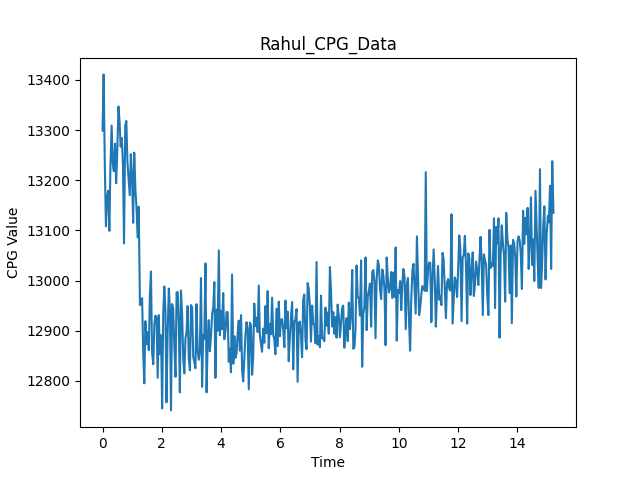
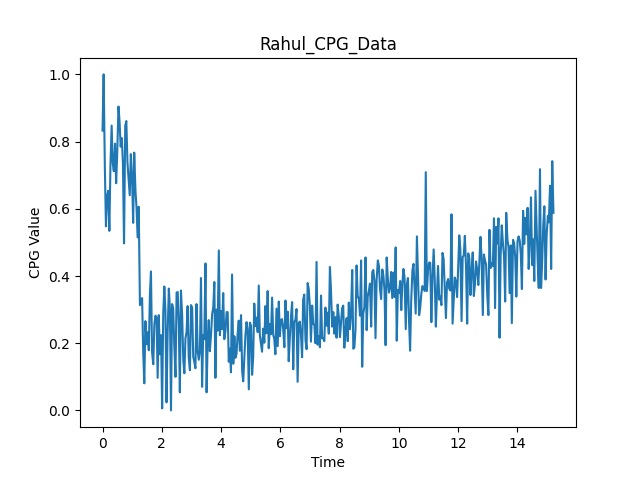
Min-Max normalized data

diff --git a/__init__.py b/__init__.py
@@ -62,6 +62,8 @@ def plot_time_series_cpg(path='',outputFileName='cpgData'):
     data[0] = pd.to_datetime(data[0], errors='coerce')
     start = data[0][0]
     data[0] = data.apply(lambda row: (row[0] - start).total_seconds(), axis = 1)
+    data[1] = (data[1]-data[1].min())/(data[1].max()-data[1].min())
+    print(data.head())
     data.plot(x=0,y=1,legend=None)
     pyplot.title(outputFileName)
     pyplot.xlabel('Time')
@@ -73,7 +75,7 @@ if __name__ == '__main__':
     # Windows : "XX:XX:XX:XX:XX:XX"
     # Mac OS :  "/dev/tty.BITalino-XX-XX-DevB" or "/dev/tty.BITalino-DevB" 
     macAddress = "/dev/tty.BITalino-DevB"
-    name = 'Saminul'
+    name = 'Rahul'
     outputFileName = f'{name}_CPG_Data'
     #ppg_vs_time = collect_data(macAddress,outputFileName=outputFileName)
     plot_time_series_cpg(path=f'CPG_Data/{outputFileName}.csv',outputFileName = outputFileName)
